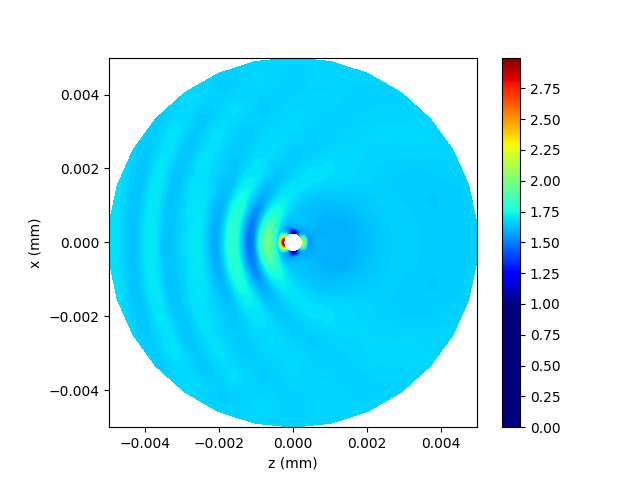
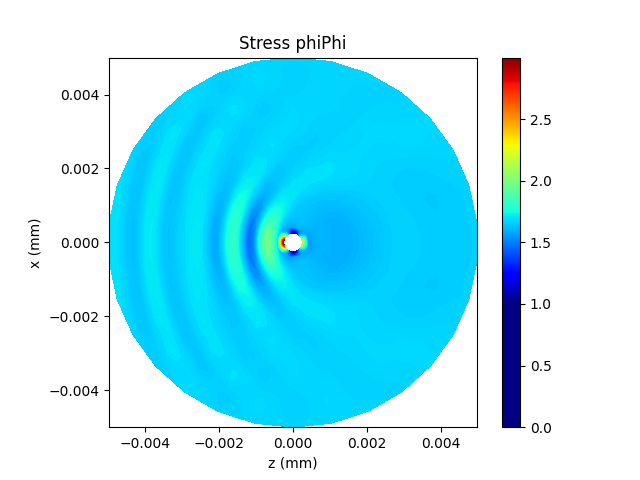
Added tickstep control and graph title

diff --git a/equations/graph.py b/equations/graph.py
@@ -15,7 +15,7 @@ Y = R * __np.sin(theta)
 cmap = __plt.get_cmap('jet')
 
 # Should be 10e6? Need to figure out why/if 10x difference.
-def graph_eq(sig, name = str(time.time())[7:-4], factor = 10e5, dir = "./pictures/", colorbar_ticks = "0.5 or 1, 0.2 for T"):
+def graph_eq(sig, name = str(time.time())[7:-4], factor = 10e5, dir = "./pictures/"):
     fig, ax = __plt.subplots()
     values = __np.abs(sig)
     ax.contourf(X, Y, values, 256)
@@ -26,12 +26,21 @@ def graph_eq(sig, name = str(time.time())[7:-4], factor = 10e5, dir = "./picture
     norm = Normalize(vmin=vmin, vmax=vmax)
     sm = cm.ScalarMappable(cmap=cmap, norm=norm)
     sm.set_array([])
-    fig.colorbar(sm, ticks=__np.arange(0,vmax,.25), boundaries=__np.arange(0,vmax,.001), ax=ax)
+
+    # colorbar_ticks = "0.5 or 1, 0.2 for T"
+    # From last year ^
+    if(name == "rR"): tickstep = 1
+    else: tickstep = .5
+
+    if (name == "q1"): title = "Heat "
+    else: title = "Stress "
+
+    fig.colorbar(sm, ticks=__np.arange(0,vmax,tickstep), boundaries=__np.arange(0,vmax,.001), ax=ax)
 
     __plt.gca().set_aspect("equal")
     __plt.xlabel("z (mm)")
     __plt.ylabel("x (mm)")
-    __plt.title(name)
+    __plt.title(title + name)
     fig.savefig(dir + name + ".png")
 
 # shift is T0?
@@ -45,7 +54,10 @@ def graph_temp_gr(values, shift = 21, name = str(time.time())[7:-4], dir = "./pi
     norm = Normalize(vmin=vmin, vmax=vmax)
     sm = cm.ScalarMappable(cmap=cmap, norm=norm)
     sm.set_array([])
-    fig.colorbar(sm, ticks=__np.arange(0,vmax,.25), boundaries=__np.arange(0,vmax,.001), ax=ax)
+    
+    tickstep = .2 # From last year
+
+    fig.colorbar(sm, ticks=__np.arange(0,vmax,tickstep), boundaries=__np.arange(0,vmax,.001), ax=ax)
     
     __plt.gca().set_aspect("equal")
     __plt.title(name)
